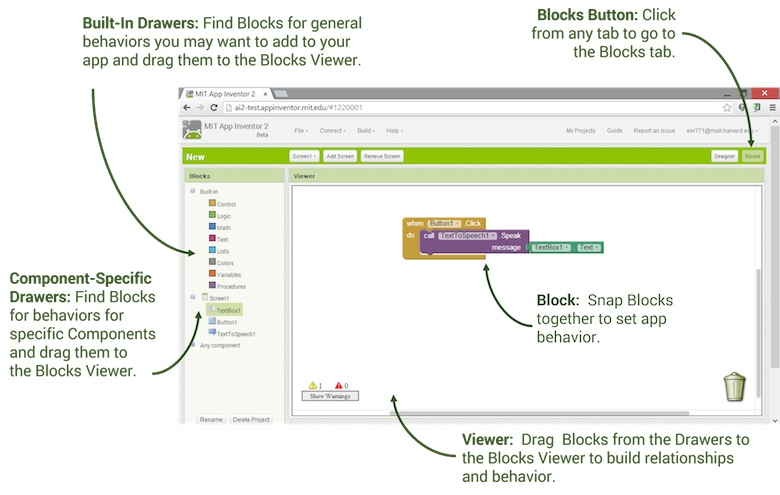
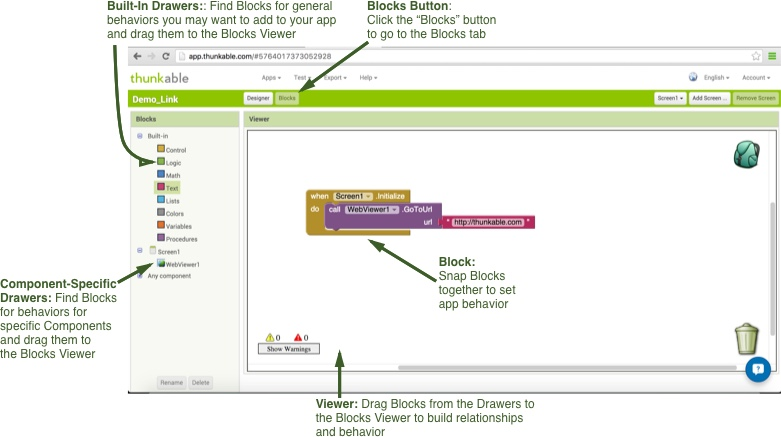
Updated designer and blocks description images. Remove header from library page. Update setup live app description.

diff --git a/explore/library.html b/explore/library.html
@@ -109,74 +109,6 @@
     <div id="page" class="container">
 
   
-  <header class="clearfix" role="banner">
-
-  <div id="top_bar">
-   <div id="branding">
-      <!--        <hgroup>
-                      <h1 id="site-name"><a href="/" title="Home page">Explore MIT App Inventor</a></h1>
-                            </hgroup>
-      -->
-              <div id="logo"><a href="index-2.html" title="Home page"><img src="sites/all/themes/appinventor/logo.png" alt="Explore MIT App Inventor logo"/></a></div>
-          
-    </div>
-      <div id="menu-bar" class="nav clearfix">
-      <nav id="block-superfish-1" class="block block-superfish block-odd block-count-1 block-region-menu-bar menu-wrapper clearfix" role="navigation">
-              <h2 class="block-title element-invisible element-invisible">! ACTIVE AI 2 MAIN MENU</h2>
-            <ul id="superfish-1" class="menu sf-menu sf-menu-simple-nav sf-horizontal sf-style-none sf-total-items-3 sf-parent-items-3 sf-single-items-0"><li id="menu-4230-1" class="first odd sf-item-1 sf-depth-1 sf-list-anchors sf-total-children-4 sf-parent-children-0 sf-single-children-4 menuparent"><a href="about-us.html" title="" class="sf-depth-1 menuparent">About ▾</a><ul><li id="menu-4231-1" class="first odd sf-item-1 sf-depth-2 sf-list-anchors sf-no-children"><a href="about-us.html" title="" class="sf-depth-2">About Us  </a></li><li id="menu-4234-1" class="middle even sf-item-2 sf-depth-2 sf-list-anchors sf-no-children"><a href="our-team.html" title="" class="sf-depth-2">Our Team</a></li><li id="menu-5013-1" class="middle odd sf-item-3 sf-depth-2 sf-list-anchors sf-no-children"><a href="research.html" title="Research related to MIT App Inventor" class="sf-depth-2">Research</a></li><li id="menu-4233-1" class="last even sf-item-4 sf-depth-2 sf-list-anchors sf-no-children"><a href="sponsors.html" title="" class="sf-depth-2">Sponsors</a></li></ul></li><li id="menu-2893-1" class="middle even sf-item-2 sf-depth-1 sf-list-anchors sf-total-children-4 sf-parent-children-0 sf-single-children-4 menuparent"><a href="news-events.html" title="" class="sf-depth-1 menuparent">News &amp; Stories ▾</a><ul><li id="menu-3040-1" class="first odd sf-item-1 sf-depth-2 sf-list-anchors sf-no-children"><a href="news-events.html" title="" class="sf-depth-2">In The News</a></li><li id="menu-3039-1" class="middle even sf-item-2 sf-depth-2 sf-list-anchors sf-no-children"><a href="stories.html" title="" class="sf-depth-2">Stories</a></li><li id="menu-4429-1" class="middle odd sf-item-3 sf-depth-2 sf-list-anchors sf-no-children"><a href="team-blog.html" title="" class="sf-depth-2">Team Blog</a></li><li id="menu-4074-1" class="last even sf-item-4 sf-depth-2 sf-list-anchors sf-no-children"><a href="app-month-gallery.html" title="Information about the App of the Month Program" class="sf-depth-2">App of the Month</a></li></ul></li><li id="menu-2894-1" class="active-trail last odd sf-item-3 sf-depth-1 sf-list-anchors sf-total-children-9 sf-parent-children-0 sf-single-children-9 menuparent"><a href="resources.html" title="" class="sf-depth-1 menuparent">Resources ▾</a><ul><li id="menu-3041-1" class="first odd sf-item-1 sf-depth-2 sf-list-anchors sf-no-children"><a href="get-started.html" title="" class="sf-depth-2">Get Started</a></li><li id="menu-3783-1" class="middle even sf-item-2 sf-depth-2 sf-list-anchors sf-no-children"><a href="teach.html" title="" class="sf-depth-2">Teach</a></li><li id="menu-3104-1" class="active-trail middle odd sf-item-3 sf-depth-2 sf-list-anchors sf-no-children"><a href="library.html" title="" class="sf-depth-2 active">Documentation</a></li><li id="menu-3036-1" class="middle even sf-item-4 sf-depth-2 sf-list-anchors sf-no-children"><a href="ai2/tutorials.html" title="Tutorials to learn about using MIT App Inventor" class="sf-depth-2">Tutorials</a></li><li id="menu-3174-1" class="middle odd sf-item-5 sf-depth-2 sf-list-anchors sf-no-children"><a href="support.html" title="Information about App Inventor version 1" class="sf-depth-2">AI Classic (v1)</a></li><li id="menu-5012-1" class="middle even sf-item-6 sf-depth-2 sf-list-anchors sf-no-children"><a href="books.html" title="" class="sf-depth-2">Books</a></li><li id="menu-3038-1" class="middle odd sf-item-7 sf-depth-2 sf-list-anchors sf-no-children"><a href="resources.html" title="" class="sf-depth-2">Resources</a></li><li id="menu-3037-1" class="middle even sf-item-8 sf-depth-2 sf-list-anchors sf-no-children"><a href="https://groups.google.com/forum/#!forum/mitappinventortest" title="" class="sf-depth-2">Forums</a></li><li id="menu-3105-1" class="last odd sf-item-9 sf-depth-2 sf-list-anchors sf-no-children"><a href="ai2/support/troubleshooting.html" title="" class="sf-depth-2">Troubleshooting</a></li></ul></li></ul>  </nav>
-  </div>
-      <div class="region region-create">
-    <section id="block-block-21" class="block block-block block-odd block-count-2 block-region-create">
-  <div class="block-inner clearfix">
-              <h2 class="block-title">Create Button</h2>
-            <div class="block-content content">
-      <p><a href="http://ai2.appinventor.mit.edu/" target="new"><button style="font-size:120%">Create apps!</button></a></p>
-    </div>
-  </div>
-</section>
-  </div>
-    </div>
-      <div class="region region-header">
-    <section id="block-block-23" class="block block-block block-odd block-count-3 block-region-header">
-  <div class="block-inner clearfix">
-              <h2 class="block-title">Social Icons</h2>
-            <div class="block-content content">
-      <p style="float:left;margin: 10px 7px;"><a href="https://www.facebook.com/MITAppInventor"><img src="sites/all/themes/appinventor/assets/images/flatSocialMediaIcons/facebook.png" style="width:25px;" /></a>    <a href="https://plus.google.com/communities/109900432278954380687"><img src="sites/all/themes/appinventor/assets/images/flatSocialMediaIcons/google%2b.png" style="width:25px;" /></a>    <a href="https://twitter.com/mitappinventor"><img src="sites/all/themes/appinventor/assets/images/flatSocialMediaIcons/twitter.png" style="width:25px;" /></a>    <a href="https://www.youtube.com/mitappinventor"><img src="sites/all/themes/appinventor/assets/images/flatSocialMediaIcons/youtube.png" style="width:25px;" /></a>    <a href="https://groups.google.com/forum/#!forum/mitappinventortest"><img src="sites/all/themes/appinventor/assets/images/flatSocialMediaIcons/googlegroups.png" style="width:25px;" /></a>    <a href="http://www.weibo.com/mitappinventor"><img src="sites/all/themes/appinventor/assets/images/flatSocialMediaIcons/soc-wb.png" style="width:25px;" /></a>    <a href="http://mp.weixin.qq.com/s?__biz=MzAxODE1NTc1MQ==&amp;mid=201968203&amp;idx=1&amp;sn=01f8946b01a98b63e97e201a812dc844#rd"><img src="sites/all/themes/appinventor/assets/images/flatSocialMediaIcons/soc-wc.png" style="width:25px;" /></a></p>
-    </div>
-  </div>
-</section>
-<div id="block-block-7" class="block block-block block-even block-count-4 block-region-header">
-  <div class="block-inner clearfix">
-                <div class="block-content content no-title">
-      
-<script>
-  (function() {
-    var cx = '005719495929270354943:tlvxrelje-e';
-    var gcse = document.createElement('script');
-    gcse.type = 'text/javascript';
-    gcse.async = true;
-    gcse.src = (document.location.protocol == 'https:' ? 'https:' : 'http:') +
-        '//www.google.com/cse/cse.js?cx=' + cx;
-    var s = document.getElementsByTagName('script')[0];
-    s.parentNode.insertBefore(gcse, s);
-  })();
-</script>
-<gcse:searchbox-only></gcse:searchbox-only>
-    </div>
-  </div>
-</div>
-<section id="block-block-31" class="block block-block block-odd block-count-5 block-region-header">
-  <div class="block-inner clearfix">
-              <h2 class="block-title">Top Headline Block</h2>
-            <div class="block-content content">
-      <p></p><center><strong><font size="3">App Inventor is now in <a href="blogs/josh/2016/01/mit-0.html"><font color="#FEFE00">Brazilian</font> <font color="#007600">Portuguese!</font></a></font></strong></center>
-    </div>
-  </div>
-</section>
-  </div>
-    
-
-  </header>
   <div id="featured-block">
     </div>
   <div id="columns"class="no-menu-bar"><div class="columns-inner clearfix">
@@ -200,7 +132,7 @@
 
       
               <h1 class="article-title">
-                      The MIT App Inventor Library: Documentation &amp; Support                  </h1>
+                      The Thunkable Library: Documentation &amp; Support                  </h1>
       
       
     </header>
@@ -208,29 +140,26 @@
   <div class="article-content">
   <div class="field field-name-body field-type-text-with-summary field-label-hidden view-mode-full"><div class="field-items"><div class="field-item even" property="content:encoded"><h3>Getting Started with App Inventor</h3>
 <table style="width:600px;margin:0 auto"><tbody><tr><td>
-<ul style="list-style-type: none;font-size:+1;"><li style="margin:.5em 10% .5em 0"><a href="ai2/setup-device-wifi.html">Connect phone/tablet or emulator for live testing as you build</a></li>
+<ul style="list-style-type: none;font-size:+1;"><li style="margin:.5em 10% .5em 0"><a href="ai2/setup-device-wifi.html">Connect phone/tablet for live testing as you build</a></li>
 <li style="margin:.5em 10% .5em 0"><a href="designer-blocks.html"><strong>Overview</strong> of Designer &amp; Blocks Editor</a></li>
-<li style="margin:.5em 10% .5em 0"><a href="ai2/beginner-videos.html">Beginner Video Tutorials: <strong>For those new to App Inventor!</strong></a></li>
-<li style="margin:.5em 10% .5em 0"><a href="ai2/tutorials.html">More Tutorials: For those ready to learn more about specific functionality</a></li>
+<li style="margin:.5em 10% .5em 0"><a href="https://www.youtube.com/playlist?list=PLB89L9PPGIrwQmlc8aqxxD9uWRuhRwVpB">Video Tutorials</a></li>
+
 <li style="margin:.5em 10% .5em 0">
 </li><li style="margin:.5em 10% .5em 0">
 <hr /></li>
 <li style="margin:.5em 10% .5em 0"><a href="ai2/share.html">Packaging &amp; Sharing Apps</a></li>
 <li style="margin:.5em 10% .5em 0"><a href="tips.html">Tips &amp; Tricks (Commenting blocks, using shortcuts like copy &amp; paste, etc.)</a></li>
 <li style="margin:.5em 10% .5em 0"><a href="ai2/concepts.html">App Inventor Concepts: Lists, Variables, Databases, Activity Starter, Google Play...</a></li>
-<p><a href="resources.html">Resources: Curricula, Books, Papers, Videos, Tools</a>
 </p></ul></td>
 
 </tr></tbody></table><h3>Documentation</h3>
 <p>Helpful explanations for all of the components and blocks in App Inventor</p>
 <table style="width:600px;margin:0 auto"><tbody><tr><td>
 <ul style="list-style-type: none;font-size:+1;"><li style="margin:.5em 10% .5em 0"><a href="ai2/support/blocks.html">Built-in Blocks Documentation</a></li>
-<li style="margin:.5em 10% .5em 0"><a href="http://ai2.appinventor.mit.edu/reference/components/">Component Documentation</a></li>
-<li style="margin:.5em 10% .5em 0"><a href="https://docs.google.com/document/d/184G1j8ipZK_jB1yEco_tq0VBv8l8FRz-NKvR7yqyd6k/pub">Using App Inventor Templates</a> and  <a href="https://docs.google.com/document/d/1QGf0gM4ZtJB87U1sXJuiwuGXFo88RBTwtTetK4uj36I/pub">Creating App Inventor Template Repositories</a></li>
-<li style="margin:.5em 10% .5em 0"><a href="http://ai2.appinventor.mit.edu/reference/other/">Other topics, notes, and details</a></li>
+<li style="margin:.5em 10% .5em 0"><a href="http://app.thunkable.com/reference/components/">Component Documentation</a></li>
+<li style="margin:.5em 10% .5em 0"><a href="http://app.thunkable.com/reference/other/">Other topics, notes, and details</a></li>
 </ul></td>
-</tr></tbody></table><hr /><pre class="ai-box">
-<strong>What happened to the old App Inventor?!</strong> As of July 2015, App Inventor Classic has been shut down. <a href="http://appinventor.mit.edu/explore/blogs/hal/2015/07/mit-app.html">You can read our farewell message here.</a> </pre><p> </p>
+</tr></tbody></table><hr />
 </div></div></div>  </div>
 
   

diff --git a/explore/designer-blocks.html b/explore/designer-blocks.html
@@ -18,7 +18,7 @@
 <link rel="shortlink" href="node/423.html" />
 <link rel="canonical" href="designer-blocks.html" />
 <meta name="Generator" content="Drupal 7 (http://drupal.org)" />
-  <title>Designer and Blocks Editor | Explore MIT App Inventor</title>
+  <title>Designer and Blocks Editor | Explore Thunkable</title>
   <style>
 @import url("modules/system/system.base0021.css?o1obu1");
 @import url("modules/system/system.menus0021.css?o1obu1");
@@ -109,74 +109,7 @@
     <div id="page" class="container">
 
   
-  <header class="clearfix" role="banner">
-
-  <div id="top_bar">
-   <div id="branding">
-      <!--        <hgroup>
-                      <h1 id="site-name"><a href="/" title="Home page">Explore MIT App Inventor</a></h1>
-                            </hgroup>
-      -->
-              <div id="logo"><a href="index-2.html" title="Home page"><img src="sites/all/themes/appinventor/logo.png" alt="Explore MIT App Inventor logo"/></a></div>
-          
-    </div>
-      <div id="menu-bar" class="nav clearfix">
-      <nav id="block-superfish-1" class="block block-superfish block-odd block-count-1 block-region-menu-bar menu-wrapper clearfix" role="navigation">
-              <h2 class="block-title element-invisible element-invisible">! ACTIVE AI 2 MAIN MENU</h2>
-            <ul id="superfish-1" class="menu sf-menu sf-menu-simple-nav sf-horizontal sf-style-none sf-total-items-3 sf-parent-items-3 sf-single-items-0"><li id="menu-4230-1" class="first odd sf-item-1 sf-depth-1 sf-list-anchors sf-total-children-4 sf-parent-children-0 sf-single-children-4 menuparent"><a href="about-us.html" title="" class="sf-depth-1 menuparent">About ▾</a><ul><li id="menu-4231-1" class="first odd sf-item-1 sf-depth-2 sf-list-anchors sf-no-children"><a href="about-us.html" title="" class="sf-depth-2">About Us  </a></li><li id="menu-4234-1" class="middle even sf-item-2 sf-depth-2 sf-list-anchors sf-no-children"><a href="our-team.html" title="" class="sf-depth-2">Our Team</a></li><li id="menu-5013-1" class="middle odd sf-item-3 sf-depth-2 sf-list-anchors sf-no-children"><a href="research.html" title="Research related to MIT App Inventor" class="sf-depth-2">Research</a></li><li id="menu-4233-1" class="last even sf-item-4 sf-depth-2 sf-list-anchors sf-no-children"><a href="sponsors.html" title="" class="sf-depth-2">Sponsors</a></li></ul></li><li id="menu-2893-1" class="middle even sf-item-2 sf-depth-1 sf-list-anchors sf-total-children-4 sf-parent-children-0 sf-single-children-4 menuparent"><a href="news-events.html" title="" class="sf-depth-1 menuparent">News &amp; Stories ▾</a><ul><li id="menu-3040-1" class="first odd sf-item-1 sf-depth-2 sf-list-anchors sf-no-children"><a href="news-events.html" title="" class="sf-depth-2">In The News</a></li><li id="menu-3039-1" class="middle even sf-item-2 sf-depth-2 sf-list-anchors sf-no-children"><a href="stories.html" title="" class="sf-depth-2">Stories</a></li><li id="menu-4429-1" class="middle odd sf-item-3 sf-depth-2 sf-list-anchors sf-no-children"><a href="team-blog.html" title="" class="sf-depth-2">Team Blog</a></li><li id="menu-4074-1" class="last even sf-item-4 sf-depth-2 sf-list-anchors sf-no-children"><a href="app-month-gallery.html" title="Information about the App of the Month Program" class="sf-depth-2">App of the Month</a></li></ul></li><li id="menu-2894-1" class="last odd sf-item-3 sf-depth-1 sf-list-anchors sf-total-children-9 sf-parent-children-0 sf-single-children-9 menuparent"><a href="resources.html" title="" class="sf-depth-1 menuparent">Resources ▾</a><ul><li id="menu-3041-1" class="first odd sf-item-1 sf-depth-2 sf-list-anchors sf-no-children"><a href="get-started.html" title="" class="sf-depth-2">Get Started</a></li><li id="menu-3783-1" class="middle even sf-item-2 sf-depth-2 sf-list-anchors sf-no-children"><a href="teach.html" title="" class="sf-depth-2">Teach</a></li><li id="menu-3104-1" class="middle odd sf-item-3 sf-depth-2 sf-list-anchors sf-no-children"><a href="library.html" title="" class="sf-depth-2">Documentation</a></li><li id="menu-3036-1" class="middle even sf-item-4 sf-depth-2 sf-list-anchors sf-no-children"><a href="ai2/tutorials.html" title="Tutorials to learn about using MIT App Inventor" class="sf-depth-2">Tutorials</a></li><li id="menu-3174-1" class="middle odd sf-item-5 sf-depth-2 sf-list-anchors sf-no-children"><a href="support.html" title="Information about App Inventor version 1" class="sf-depth-2">AI Classic (v1)</a></li><li id="menu-5012-1" class="middle even sf-item-6 sf-depth-2 sf-list-anchors sf-no-children"><a href="books.html" title="" class="sf-depth-2">Books</a></li><li id="menu-3038-1" class="middle odd sf-item-7 sf-depth-2 sf-list-anchors sf-no-children"><a href="resources.html" title="" class="sf-depth-2">Resources</a></li><li id="menu-3037-1" class="middle even sf-item-8 sf-depth-2 sf-list-anchors sf-no-children"><a href="https://groups.google.com/forum/#!forum/mitappinventortest" title="" class="sf-depth-2">Forums</a></li><li id="menu-3105-1" class="last odd sf-item-9 sf-depth-2 sf-list-anchors sf-no-children"><a href="ai2/support/troubleshooting.html" title="" class="sf-depth-2">Troubleshooting</a></li></ul></li></ul>  </nav>
-  </div>
-      <div class="region region-create">
-    <section id="block-block-21" class="block block-block block-odd block-count-2 block-region-create">
-  <div class="block-inner clearfix">
-              <h2 class="block-title">Create Button</h2>
-            <div class="block-content content">
-      <p><a href="http://ai2.appinventor.mit.edu/" target="new"><button style="font-size:120%">Create apps!</button></a></p>
-    </div>
-  </div>
-</section>
-  </div>
-    </div>
-      <div class="region region-header">
-    <section id="block-block-23" class="block block-block block-odd block-count-3 block-region-header">
-  <div class="block-inner clearfix">
-              <h2 class="block-title">Social Icons</h2>
-            <div class="block-content content">
-      <p style="float:left;margin: 10px 7px;"><a href="https://www.facebook.com/MITAppInventor"><img src="sites/all/themes/appinventor/assets/images/flatSocialMediaIcons/facebook.png" style="width:25px;" /></a>    <a href="https://plus.google.com/communities/109900432278954380687"><img src="sites/all/themes/appinventor/assets/images/flatSocialMediaIcons/google%2b.png" style="width:25px;" /></a>    <a href="https://twitter.com/mitappinventor"><img src="sites/all/themes/appinventor/assets/images/flatSocialMediaIcons/twitter.png" style="width:25px;" /></a>    <a href="https://www.youtube.com/mitappinventor"><img src="sites/all/themes/appinventor/assets/images/flatSocialMediaIcons/youtube.png" style="width:25px;" /></a>    <a href="https://groups.google.com/forum/#!forum/mitappinventortest"><img src="sites/all/themes/appinventor/assets/images/flatSocialMediaIcons/googlegroups.png" style="width:25px;" /></a>    <a href="http://www.weibo.com/mitappinventor"><img src="sites/all/themes/appinventor/assets/images/flatSocialMediaIcons/soc-wb.png" style="width:25px;" /></a>    <a href="http://mp.weixin.qq.com/s?__biz=MzAxODE1NTc1MQ==&amp;mid=201968203&amp;idx=1&amp;sn=01f8946b01a98b63e97e201a812dc844#rd"><img src="sites/all/themes/appinventor/assets/images/flatSocialMediaIcons/soc-wc.png" style="width:25px;" /></a></p>
-    </div>
-  </div>
-</section>
-<div id="block-block-7" class="block block-block block-even block-count-4 block-region-header">
-  <div class="block-inner clearfix">
-                <div class="block-content content no-title">
-      
-<script>
-  (function() {
-    var cx = '005719495929270354943:tlvxrelje-e';
-    var gcse = document.createElement('script');
-    gcse.type = 'text/javascript';
-    gcse.async = true;
-    gcse.src = (document.location.protocol == 'https:' ? 'https:' : 'http:') +
-        '//www.google.com/cse/cse.js?cx=' + cx;
-    var s = document.getElementsByTagName('script')[0];
-    s.parentNode.insertBefore(gcse, s);
-  })();
-</script>
-<gcse:searchbox-only></gcse:searchbox-only>
-    </div>
-  </div>
-</div>
-<section id="block-block-31" class="block block-block block-odd block-count-5 block-region-header">
-  <div class="block-inner clearfix">
-              <h2 class="block-title">Top Headline Block</h2>
-            <div class="block-content content">
-      <p></p><center><strong><font size="3">App Inventor is now in <a href="blogs/josh/2016/01/mit-0.html"><font color="#FEFE00">Brazilian</font> <font color="#007600">Portuguese!</font></a></font></strong></center>
-    </div>
-  </div>
-</section>
-  </div>
-    
-
-  </header>
+  
   <div id="featured-block">
     </div>
   <div id="columns"class="no-menu-bar"><div class="columns-inner clearfix">
@@ -206,16 +139,14 @@
     </header>
     <span property="dc:title" content="Designer and Blocks Editor" class="rdf-meta element-hidden"></span>
   <div class="article-content">
-  <div class="field field-name-body field-type-text-with-summary field-label-hidden view-mode-full"><div class="field-items"><div class="field-item even" property="content:encoded"><p> App Inventor consists of the <strong>Designer</strong> and the <strong>Blocks Editor</strong>. These are described in detail below.</p>
-<hr /><h2>App Inventor Designer</h2>
+  <div class="field field-name-body field-type-text-with-summary field-label-hidden view-mode-full"><div class="field-items"><div class="field-item even" property="content:encoded"><p> Thunkable consists of the <strong>Designer</strong> and the <strong>Blocks Editor</strong>. These are described in detail below.</p>
+<hr /><h2>Thunkable Designer</h2>
 <h3>Design the App's User Interface by arranging both on- and off-screen components.</h3>
 <p><a href="sites/all/files/SetupAI2/DesignTab.jpg"><img src="sites/all/files/SetupAI2/DesignTab.png" style="width:100%" /></a><br /><a name="blocks" id="blocks"><br /><hr /></a></p>
-<h2>App Inventor Blocks Editor</h2>
+<h2>Thunkable Blocks Editor</h2>
 <h3>Program the app's behavior by putting blocks together.</h3>
 <p><a href="sites/all/files/SetupAI2/BlocksTab.jpg"><img src="sites/all/files/SetupAI2/BlocksTab.png" style="width:100%" /></a></p>
-<hr /><h2>&lt;&lt; <a href="get-started.html">Return to Getting Started Guide</a></h2>
-<h2>or</h2>
-<h2>&lt;&lt; <a href="ai2/setup.html">Return to Setup Instructions</a></h2>
+<hr /><h2>&lt;&lt; <a href="library.html">Return to Getting Started Guide</a></h2>
 </div></div></div>  </div>
 
   

diff --git a/explore/ai2/setup-device-wifi.html b/explore/ai2/setup-device-wifi.html
@@ -153,11 +153,11 @@
 <p>After downloading, step though the the instructions to install the Live app on your device.You need to install the Thunkable Live only once, and then leave it on your phone or tablet for whenever you use Thunkable.</p>
 <p><em>Note:</em> If you are unable to use the QR code, you can still install Thunkable Live on your phone or tablet. Use the Web browser on your device to go to the Google Play Store; look for Thunkable Live in the store. Once you find Thunkable Live, click the INSTALL button for the Live app.</p>
 <hr /><h3>Step 2: Connect both your computer and your device to the SAME WiFi Network</h3>
-<p>Thunkable will automatically show you the app you are building, but only if your computer (running Thunkable) and your Android device (running the Thunkable Live app) are connected to the same WiFi Network. <a href="../support/explain-wifi-connection-2.html">See a more detailed explanation of this here.</a></p>
+<p>Thunkable will automatically show you the app you are building, but only if your computer (running Thunkable) and your Android device (running the Thunkable Live app) are connected to the same WiFi Network.</p>
 <hr /><h3>Step 3: Open an Thunkable project and connect it to your device</h3>
-<p>Go to Thunkable and open a project (or create a new one -- use <em>Project &gt; Start New Project </em>and give your project a name).</p>
+<p>Go to Thunkable and open a project (or create a new one -- use <em>Apps &gt; Create New App </em>and give your project a name).</p>
 <p> </p>
-<p>Then Choose "Connect" and "Thunkable Live" from the top menu in the Thunkable browser:<br /> </p>
+<p>Then Choose "Test" and "Thunkable Live" from the top menu in the Thunkable browser:<br /> </p>
 <div style="text-align: center;"><img src="../sites/all/files/SetupAI2/wifi/connectSnapshot2.png" width="80%" /></div>
 <p>
 </p><p>A dialog with a QR code will appear on your PC screen. On your device, launch the Thunkable Live app just as you would do any app. Then click the “Scan QR code” button on the Live, and scan the code in the Thunkable window:</p>
@@ -173,7 +173,7 @@
 <li>Your device may not be connected to wifi. Make sure you see an IP address at the bottom of the Thunkable Live App screen on your phone or tablet.</li>
 <li>Your device may not be connected to the same wifi network as your computer. Make sure both devices are connected to the same wifi network name.</li>
 </ul><p> </p>
-<div><a class="buttonSetup gray" href="hellopurr.html">Make First App</a><br /><hr align="center" width="40%" /><a class="buttonSetup gray" href="setup.html">Back to Setup Menu</a></div>
+<div><a class="buttonSetup gray" href="hellopurr.html">Make First App</a></div>
 </div></div></div>  </div>
 
   
@@ -223,7 +223,7 @@ float: left;
 
 /*--><!]]>*/
 </style><div id="footer-nav">
-<ul><li><a href="../index-2.html"><strong>Home</strong></a></li>
+<ul><li><a href="http://thunkable.com"><strong>Home</strong></a></li>
 </ul><ul><li><a href="../about-us.html"><strong>About</strong></a></li>
 <li><a href="../about-us.html">About Us</a></li>
 <li><a href="../our-team.html">Our Team</a></li>
